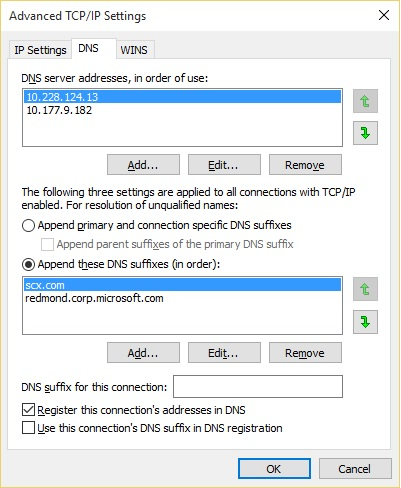
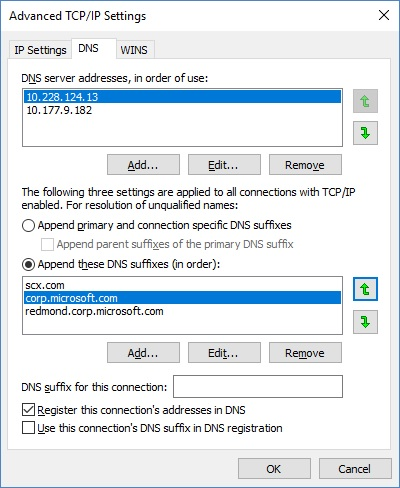
Add 'corp.microsoft.com' to list of suffixes for DNS

diff --git a/README.md b/README.md
@@ -92,8 +92,8 @@ Select the "DNS" tab, and set up DNS suffixes as shown above. Add these suffixes
 
 ```
 scx.com
+corp.microsoft.com
 redmond.corp.microsoft.com
-ntdev.corp.microsoft.com
 ```
 
 Finally, click "OK" and/or "Close" to close each of the dialog boxes.
@@ -107,7 +107,7 @@ In an **Administrative** PowerShell session:
 
 ```powershell
 Set-DnsClientServerAddress -InterfaceAlias Ethernet -ServerAddresses @("10.228.124.13","10.177.9.182")
-Set-DnsClientGlobalSetting -SuffixSearchList @("scx.com","redmond.corp.microsoft.com","ntdev.corp.microsoft.com")
+Set-DnsClientGlobalSetting -SuffixSearchList @("scx.com","corp.microsoft.com","redmond.corp.microsoft.com")
 ```
 
 Since `-InterfaceAlias Ethernet` is a guess, if it does not work,
